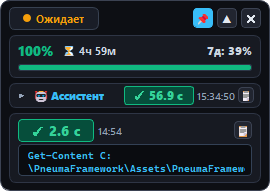
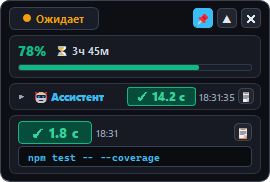
Add privacy & security guarantee to README, update clean English & Russian screenshots

Changed region(s): [[0.0296, 0.0275, 0.9778, 0.9341], [0.9481, 0.3846, 0.9778, 0.4121], [0.0889, 0.0549, 0.1185, 0.0824]]

diff --git a/main.cpp b/main.cpp
@@ -2,6 +2,9 @@
 #include <QFont>
 #include <QIcon>
 #include <QGuiApplication>
+#include <QThread>
+#include <QDir>
+#include <QDateTime>
 #include "widget.h"
 
 int main(int argc, char *argv[])
@@ -24,6 +27,70 @@ int main(int argc, char *argv[])
     app.setFont(defaultFont);
 
     CodexWidget widget;
+
+    if (app.arguments().contains("--render-screenshots")) {
+        widget.pauseMonitor();
+        widget.show();
+
+        auto renderShot = [&](const QString &lang, bool expanded, const QString &outputPath, bool isWorking = false) {
+            widget.setLanguage(lang);
+
+            CodexSnapshot snap;
+            snap.state = isWorking ? CodexState::Working : CodexState::Idle;
+            snap.isProcessRunning = true;
+            snap.isRunnerRunning = isWorking;
+            snap.primaryUsedPercent = 22.0; // 78% remaining
+            snap.primaryResetsAt = QDateTime::currentDateTime().toSecsSinceEpoch() + 3 * 3600 + 45 * 60;
+            snap.secondaryUsedPercent = 18.0;
+            snap.lastMessageAuthor = "Codex";
+
+            if (lang == "ru") {
+                snap.stateDescription = isWorking ? "Выполняется команда" : "Ожидает команды";
+                snap.lastMessageText = isWorking ? "Запуск набора тестов для проверки изменений в коде..."
+                                                 : "Оптимизирована сетевая подсистема и добавлены юнит-тесты для обработки таймаутов. Все 42 проверки успешно пройдены.";
+                snap.lastCommand.command = isWorking ? "pytest tests/test_core.py -v" : "npm test -- --coverage";
+                snap.lastCommand.status = isWorking ? "running" : "completed";
+                snap.lastCommand.statusText = isWorking ? "Выполняется" : "Выполнена";
+                snap.lastCommand.wallTime = isWorking ? "4.2 с" : "1.8 с";
+            } else {
+                snap.stateDescription = isWorking ? "Executing terminal command" : "Ready for input";
+                snap.lastMessageText = isWorking ? "Running test suite to verify code changes..."
+                                                 : "Refactored the network polling engine and added unit tests for timeout handling. All 42 test suites passed successfully.";
+                snap.lastCommand.command = isWorking ? "pytest tests/test_core.py -v" : "npm test -- --coverage";
+                snap.lastCommand.status = isWorking ? "running" : "completed";
+                snap.lastCommand.statusText = isWorking ? "Running" : "Completed";
+                snap.lastCommand.wallTime = isWorking ? "4.2 s" : "1.8 s";
+            }
+
+            snap.lastMessageTime = QDateTime::currentDateTime().addSecs(isWorking ? -6 : -45);
+            snap.isTurnActive = isWorking;
+            snap.turnDurationMs = isWorking ? 6400 : 14200;
+            snap.lastCommand.timestamp = QDateTime::currentDateTime().addSecs(isWorking ? -4 : -55);
+            snap.lastCommand.isValid = true;
+
+            widget.applySnapshot(snap);
+            widget.setMsgTextExpanded(expanded);
+            widget.adjustSize();
+
+            for (int i = 0; i < 25; ++i) {
+                app.processEvents();
+                QThread::msleep(20);
+            }
+
+            QPixmap shot = widget.grab();
+            shot.save(outputPath, "PNG");
+        };
+
+        QDir().mkpath("assets");
+        renderShot("en", false, "assets/widget_en.png", false);
+        renderShot("en", true, "assets/widget_en_expanded.png", false);
+        renderShot("en", false, "assets/widget_en_working.png", true);
+        renderShot("ru", false, "assets/widget_ru.png", false);
+        renderShot("ru", true, "assets/widget_ru_expanded.png", false);
+
+        return 0;
+    }
+
     widget.show();
 
     return app.exec();

diff --git a/widget.cpp b/widget.cpp
@@ -41,6 +41,18 @@ CodexWidget::~CodexWidget()
     saveSettings();
 }
 
+void CodexWidget::pauseMonitor()
+{
+    if (m_monitor) {
+        m_monitor->stop();
+    }
+}
+
+void CodexWidget::applySnapshot(const CodexSnapshot &snapshot)
+{
+    onSnapshotUpdated(snapshot);
+}
+
 void CodexWidget::setupUi()
 {
     setWindowTitle(tr("Codex Monitor Widget (CMW)"));
@@ -715,9 +727,9 @@ void CodexWidget::toggleCompactMode()
     saveSettings();
 }
 
-void CodexWidget::toggleMsgTextExpanded()
+void CodexWidget::setMsgTextExpanded(bool expanded)
 {
-    m_isMsgTextExpanded = !m_isMsgTextExpanded;
+    m_isMsgTextExpanded = expanded;
     if (m_msgTextLabel) {
         m_msgTextLabel->setVisible(m_isMsgTextExpanded);
     }
@@ -727,6 +739,11 @@ void CodexWidget::toggleMsgTextExpanded()
     adjustSize();
     ensureVisibleOnScreen();
     saveSettings();
+}
+
+void CodexWidget::toggleMsgTextExpanded()
+{
+    setMsgTextExpanded(!m_isMsgTextExpanded);
 }
 
 QString CodexWidget::formatDuration(double elapsedSec, bool isRunning)

diff --git a/widget.h b/widget.h
@@ -18,11 +18,14 @@ public:
     explicit CodexWidget(QWidget *parent = nullptr);
     ~CodexWidget() override;
     void setLanguage(const QString &langCode);
+    void pauseMonitor();
+    void applySnapshot(const CodexSnapshot &snapshot);
     QMenu *trayMenu() const { return m_trayMenu; }
 
 public slots:
     void toggleCompactMode();
     void toggleMsgTextExpanded();
+    void setMsgTextExpanded(bool expanded);
 
 protected:
     void mousePressEvent(QMouseEvent *event) override;

diff --git a/README.md b/README.md
@@ -20,28 +20,52 @@
   <b>Developer:</b> Ivan Klenov &bull; <b>Studio:</b> Madness Studio
 </p>
 
+> [!IMPORTANT]
+> **🛡 Privacy & Security Guarantee / Гарантия безопасности и приватности**:
+> - 🚫 **No Network Connection**: This tool never connects to the internet, remote servers, or telemetry endpoints. *(Инструмент не подключается к сети).*
+> - 🔑 **Zero API Keys & Tokens**: Does not ask for, read, or store OpenAI API keys, auth tokens, or passwords. *(Не запрашивает и не хранит токены).*
+> - 🔒 **No Authorization Needed**: Operates completely standalone without requiring any login or account credentials. *(Не требует авторизации).*
+> - 🛡 **Zero Data Interception**: Never logs, intercepts, or transmits your code, prompts, chat history, or personal files. *(Не сохраняет и не перехватывает никаких данных).*
+> - 💻 **100% Local Passive Inspection**: It simply reads local process execution flags and monitors active Codex session state files locally on your PC. *(Исключительно локально мониторит состояние сессии Codex).*
+
 ---
 
-## 📸 Preview
+## 📸 Interface Preview (English)
+
+<p align="center">
+  <img src="assets/widget_en_expanded.png" alt="Codex Monitor Widget English Interface" width="340" />
+  &nbsp;&nbsp;&nbsp;
+  <img src="assets/widget_en_working.png" alt="Codex Monitor Widget Live Working State" width="340" />
+</p>
+<p align="center">
+  <i>Left: Expanded Assistant Reply & Command HUD (Idle) &bull; Right: Live Execution Timers (Working)</i>
+</p>
+
+<details>
+<summary><b>🌍 Click to expand Multilingual & Mode Comparisons (EN / RU)</b></summary>
+
+<br />
 
 <table align="center">
   <tr>
-    <td align="center"><b>English (Compact)</b></td>
-    <td align="center"><b>Russian (Компактный)</b></td>
+    <td align="center"><b>English (Compact Mode)</b></td>
+    <td align="center"><b>Russian (Компактный режим)</b></td>
   </tr>
   <tr>
-    <td><img src="assets/widget_en.png" alt="English Compact Mode" width="340" /></td>
-    <td><img src="assets/widget_ru.png" alt="Russian Compact Mode" width="340" /></td>
+    <td><img src="assets/widget_en.png" alt="English Compact" width="320" /></td>
+    <td><img src="assets/widget_ru.png" alt="Russian Compact" width="320" /></td>
   </tr>
   <tr>
-    <td align="center"><b>English (Expanded Assistant)</b></td>
-    <td align="center"><b>Russian (Развернутый ответ)</b></td>
+    <td align="center"><b>English (Expanded Mode)</b></td>
+    <td align="center"><b>Russian (Развернутый режим)</b></td>
   </tr>
   <tr>
-    <td><img src="assets/widget_en_expanded.png" alt="English Expanded Mode" width="340" /></td>
-    <td><img src="assets/widget_ru_expanded.png" alt="Russian Expanded Mode" width="340" /></td>
+    <td><img src="assets/widget_en_expanded.png" alt="English Expanded" width="320" /></td>
+    <td><img src="assets/widget_ru_expanded.png" alt="Russian Expanded" width="320" /></td>
   </tr>
 </table>
+
+</details>
 
 ---
 
@@ -49,7 +73,7 @@
 
 - ⏱ **Real-Time Command Execution Stopwatch**:
   - Ticking millisecond-accurate timer monitoring live terminal commands, tool executions, and file operations executed by Codex (`codex-command-runner`).
-  - Prominent high-contrast digital readout (`00:04.2`).
+  - Prominent high-contrast digital readout (`⏳ 4.7 s` / `✓ 1.8 s`).
   - Automatically records and locks final wall execution time upon completion.
 
 - ⏳ **Independent Assistant Replica / Turn Timer**:
@@ -57,12 +81,12 @@
   - Automatically resets whenever a new assistant thought, tool phase, or turn response arrives.
 
 - 📊 **Rate Limit & 5-Hour Quota Indicators**:
-  - Live percentage tracking of Codex's primary 5-hour rolling limit.
+  - Live percentage tracking of Codex's primary 5-hour rolling limit (`78% remaining`).
   - Adaptive 3-state progress bar:
     - 🟢 **Neon Cyan / Green** (`< 70%`) &mdash; Normal usage.
     - 🟡 **Amber Yellow** (`70% – 85%`) &mdash; Elevated quota.
     - 🔴 **Crimson Red** (`> 85%`) &mdash; Critical limit alert.
-  - Precise countdown to quota reset (`Reset in: Xh Ym`).
+  - Precise countdown to quota reset (`Reset in: ⏳ 3h 45m`).
   - Secondary weekly quota tooltip.
 
 - 🖥 **Multi-Monitor & Mixed-DPI Resilience**:
@@ -72,6 +96,7 @@
 - 🌐 **Full Dual-Language Localization (EN / RU)**:
   - Built with **Qt Linguist** (`.ts` / `.qm`) compiled directly into binary application resources.
   - Automatically adopts your Windows system display language with instant fallback to English.
+  - Dynamic runtime language switcher via system tray menu.
 
 - 🎨 **Modern Cyber-HUD Aesthetics**:
   - Frameless glassmorphism design with deep obsidian background and crisp neon borders.
@@ -83,7 +108,7 @@
 - 🔔 **Windows System Tray Integration**:
   - Dynamic status tray icon (🟢 Working, 🟡 Idle, 🔴 Offline).
   - Live tooltip with current action, command status, and quota usage.
-  - Context menu for quick actions (Show/Hide, Pin, Force Refresh, Exit).
+  - Context menu for quick actions (Show/Hide, Pin, Force Refresh, Language Selection, Exit).
 
 - 🔒 **Absolute Privacy & Zero Data Footprint**:
   - Operates 100% locally on your machine.
@@ -145,6 +170,7 @@ codex_widget_cpp/
 │   ├── app_icon.png           # High-resolution application icon
 │   ├── widget_en.png          # English UI preview (compact)
 │   ├── widget_en_expanded.png # English UI preview (expanded)
+│   ├── widget_en_working.png  # English UI preview (live working state)
 │   ├── widget_ru.png          # Russian UI preview (compact)
 │   └── widget_ru_expanded.png # Russian UI preview (expanded)
 ├── translations/              # Qt Linguist translation sources
@@ -153,7 +179,7 @@ codex_widget_cpp/
 ├── codex_monitor.h/.cpp       # Engine: process scanner, session parser, quota tracker
 ├── widget.h/.cpp              # GUI: HUD layout, timers, DPI handling, tray integration
 ├── styles.h                   # Cyber-HUD QSS styling rules & color palette
-├── main.cpp                   # Application entry point & locale detection
+├── main.cpp                   # Application entry point, CLI flags & locale detection
 ├── app.rc / app.ico           # Windows executable resource definition & icon
 ├── resources.qrc              # Qt binary resource bundle (icons & compiled translations)
 ├── qt.conf                    # DPI awareness configuration
@@ -175,6 +201,7 @@ codex_widget_cpp/
 | **Minimize to Tray** | Click the **—** minimize button |
 | **Close Application** | Click the **✕** close button or choose Exit from tray |
 | **Copy Assistant Message** | Click the **📋 Copy** button inside the expanded card |
+| **Switch Language** | Right-click the system tray icon &rarr; **Language** |
 | **Tray Context Menu** | Right-click the system tray icon |
 
 ---
